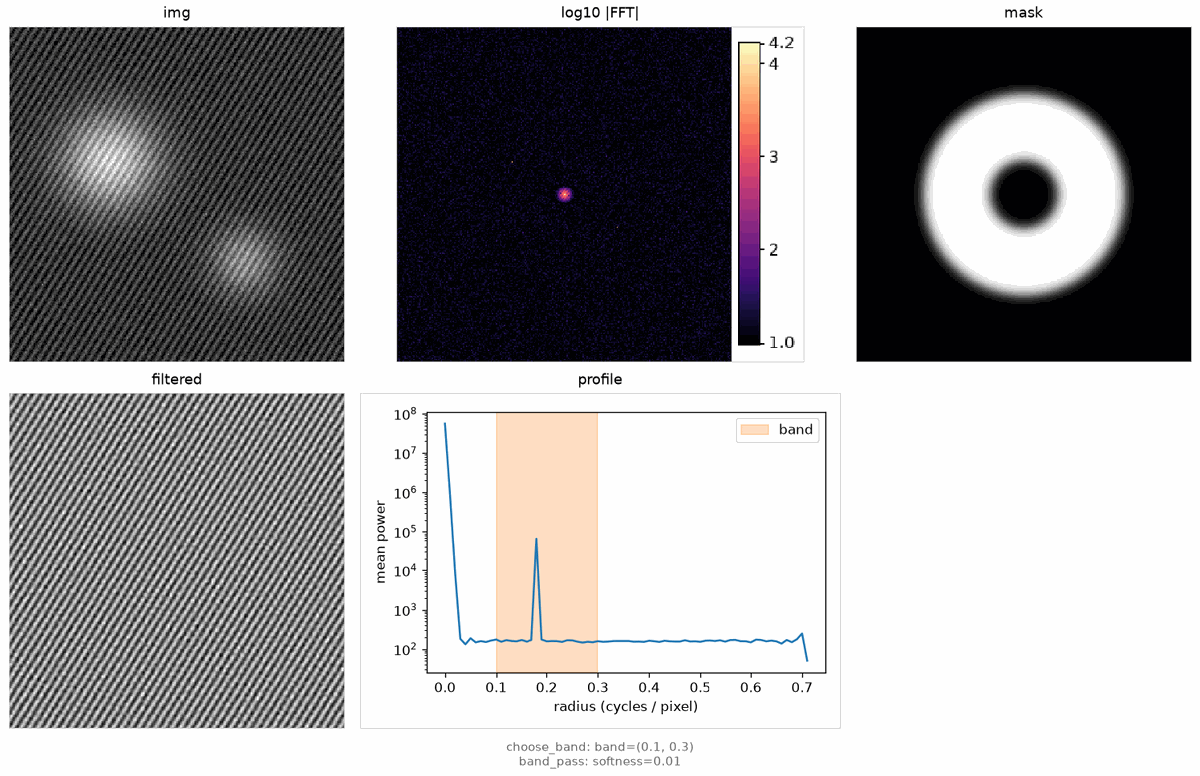
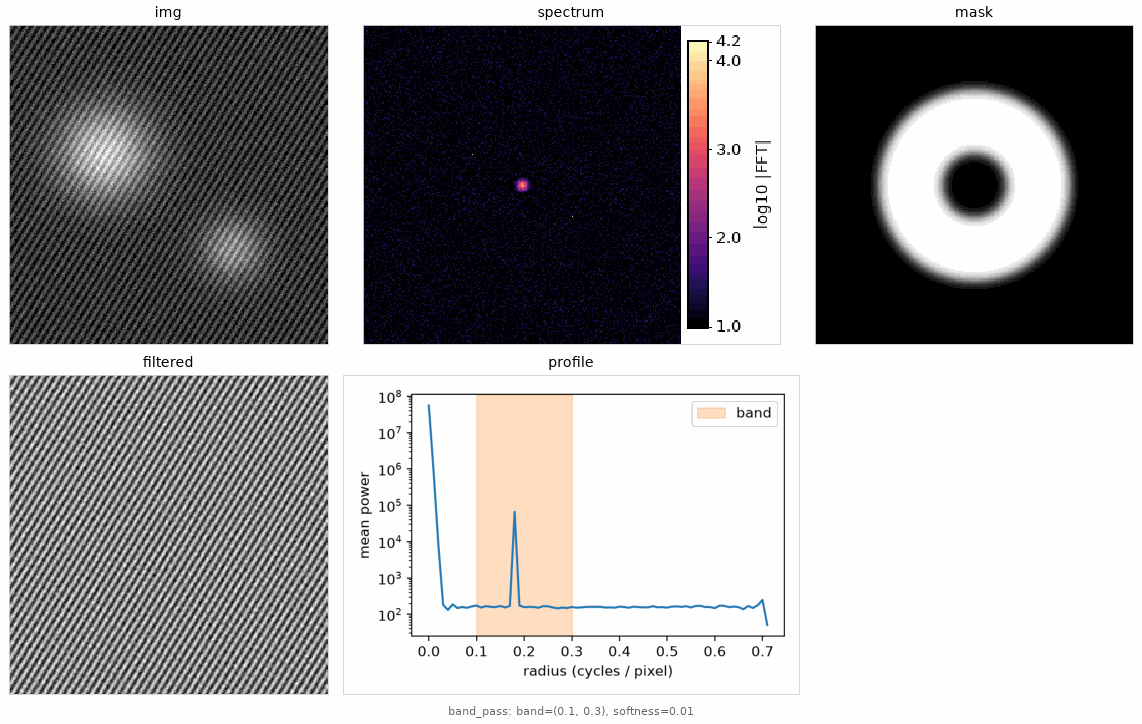
Gallery: drop the workarounds the library no longer needs, regenerate
- blob_detection: draw.boxes takes an empty colour list, Table takes numpy
  columns and may be empty (no 'no detection' string, no .tolist())
- optimizer_trace / pid_control: no hand-tuned figsize (figures are drawn
  at cell size); pid_control lets the library lay the Bode plot out
- frequency_filtering: the colorbar carries 'log10 |FFT|'
- docs/gallery.md: log-scale slider, reaction-diffusion fresh context
- docs/images/gallery/*.png regenerated with scripts/make_gallery.py

diff --git a/demo/gallery/blob_detection.py b/demo/gallery/blob_detection.py
@@ -59,16 +59,13 @@ def score(img, det, max_dist: Annotated[float, (1.0, 15.0), "Match radius (px)"]
     dist = np.linalg.norm(centers[:, None] - CENTERS[None], axis=-1)  # detections x ground truth
     tp = dist.min(axis=1, initial=np.inf) < max_dist
     found = dist.min(axis=0, initial=np.inf) < max_dist
-    overlay = draw.boxes(
-        img, det["box"], labels=range(len(tp)), color=["lime" if t else "red" for t in tp] or None
-    )  # [] raises
+    overlay = draw.boxes(img, det["box"], labels=range(len(tp)), color=["lime" if t else "red" for t in tp])
     overlay = draw.points(overlay, CENTERS[~found], color="yellow", radius=6, filled=False)
     title = f"precision {tp.mean() if len(tp) else 0:.2f}, recall {found.mean():.2f}"
     columns = dict(
         id=np.arange(len(tp)), x=det["box"][:, 0], y=det["box"][:, 1], area=det["area"], peak=det["peak"], match=tp
     )
-    table = Table({name: np.asarray(values).tolist() for name, values in columns.items()})  # lists, not arrays
-    return Image(overlay, title=title), table if len(tp) else "no detection"  # an empty Table cannot be drawn
+    return Image(overlay, title=title), Table(columns)
 
 
 @interactive_pipeline(gui="auto")

diff --git a/demo/gallery/pid_control.py b/demo/gallery/pid_control.py
@@ -50,7 +50,7 @@ def bode(kp: Kp = 2.0, ki: Ki = 3.0, kd: Kd = 0.15):
     s = 1j * w
     loop = (kp + ki / s + kd * s / (1 + TAU_D * s)) * WN**2 / (s**2 + 2 * ZETA * WN * s + WN**2)
     mag, phase = 20 * np.log10(np.abs(loop)), np.degrees(np.unwrap(np.angle(loop)))
-    fig = Figure(figsize=(4.5, 4))
+    fig = Figure()
     ax_mag, ax_phase = fig.subplots(2, 1, sharex=True)
     ax_mag.semilogx(w / (2 * np.pi), mag)
     ax_mag.axhline(0, color="gray", linewidth=0.8)
@@ -64,7 +64,6 @@ def bode(kp: Kp = 2.0, ki: Ki = 3.0, kd: Kd = 0.15):
         ax_mag.set_title(f"crossover {fc:.2f} Hz, margin {margin:.0f} deg")
     ax_mag.set_ylabel("gain (dB)")
     ax_phase.set(ylabel="phase (deg)", xlabel="frequency (Hz)")
-    fig.tight_layout()
     return fig
 
 

diff --git a/test/test_gallery.py b/test/test_gallery.py
@@ -85,7 +85,7 @@ def test_blob_detection_scores(isolated_controls):
     assert precision >= 0.8 and recall >= 0.6
     assert overlay.data.shape == img.shape + (3,) and len(table.values) == 11
     _, overlay, table = blobs(img, threshold=0.99)  # nothing detected: no crash
-    assert overlay.title == "precision 0.00, recall 0.00" and table == "no detection"
+    assert overlay.title == "precision 0.00, recall 0.00" and len(table.values) == 0  # an empty Table
 
 
 def test_signal_filters_have_unit_dc_gain(isolated_controls):

diff --git a/demo/gallery/frequency_filtering.py b/demo/gallery/frequency_filtering.py
@@ -31,7 +31,7 @@ def radius(shape):
 
 @interactive()
 def spectrum(img):
-    layout.style("log_spectrum", title="log10 |FFT|", colormap="magma", vmin=1.0, colorbar=True)
+    layout.style("log_spectrum", title="spectrum", colormap="magma", vmin=1.0, colorbar="log10 |FFT|")
     f = np.fft.fftshift(np.fft.fft2(img))
     return f, np.log10(np.abs(f) + 1e-6)
 

diff --git a/demo/gallery/optimizer_trace.py b/demo/gallery/optimizer_trace.py
@@ -53,7 +53,7 @@ def optimize(
 
 @interactive()
 def contour(path):
-    fig = Figure(figsize=(5, 4.5))
+    fig = Figure()
     ax = fig.subplots()
     ax.contour(X, Y, np.log10(loss(np.stack([X, Y], axis=-1)) + 1e-3), levels=20, cmap="viridis")
     ax.plot(path[:, 0], path[:, 1], "r.-", markersize=3, linewidth=1)

diff --git a/docs/gallery.md b/docs/gallery.md
@@ -58,7 +58,7 @@ The sweep chose the defaults: a low threshold needs a minimal area to reject noi
 
 ## Optimisation trace
 
-Watch gradient descent, momentum, Nesterov and Adam cross the Rosenbrock valley: contour figure with the trajectory, loss curve, a `Literal` dropdown for the optimiser and a log10 learning-rate slider.
+Watch gradient descent, momentum, Nesterov and Adam cross the Rosenbrock valley: contour figure with the trajectory, loss curve, a `Literal` dropdown for the optimiser and a log-scale learning-rate slider.
 
 ![Optimisation trace](images/gallery/optimizer_trace.png)
 
@@ -102,7 +102,7 @@ The sweep shows what the derivative gain and actuator saturation do to the step 
 
 ## Stateful simulation (edge case)
 
-A Gray-Scott reaction-diffusion animated by a clock. Pipelines are pure functions of their controls, simulations are not: the frame is made a function of the clock (`t`) with the context as a cache, so snapshots and sweeps stay reproducible.
+A Gray-Scott reaction-diffusion animated by a clock. Pipelines are pure functions of their controls, simulations are not: the state lives in `context` and each run advances it to the clock (`t`); snapshots and sweeps start each picture from a fresh context, so they stay reproducible.
 
 ![Stateful simulation (edge case)](images/gallery/reaction_diffusion.png)
 
